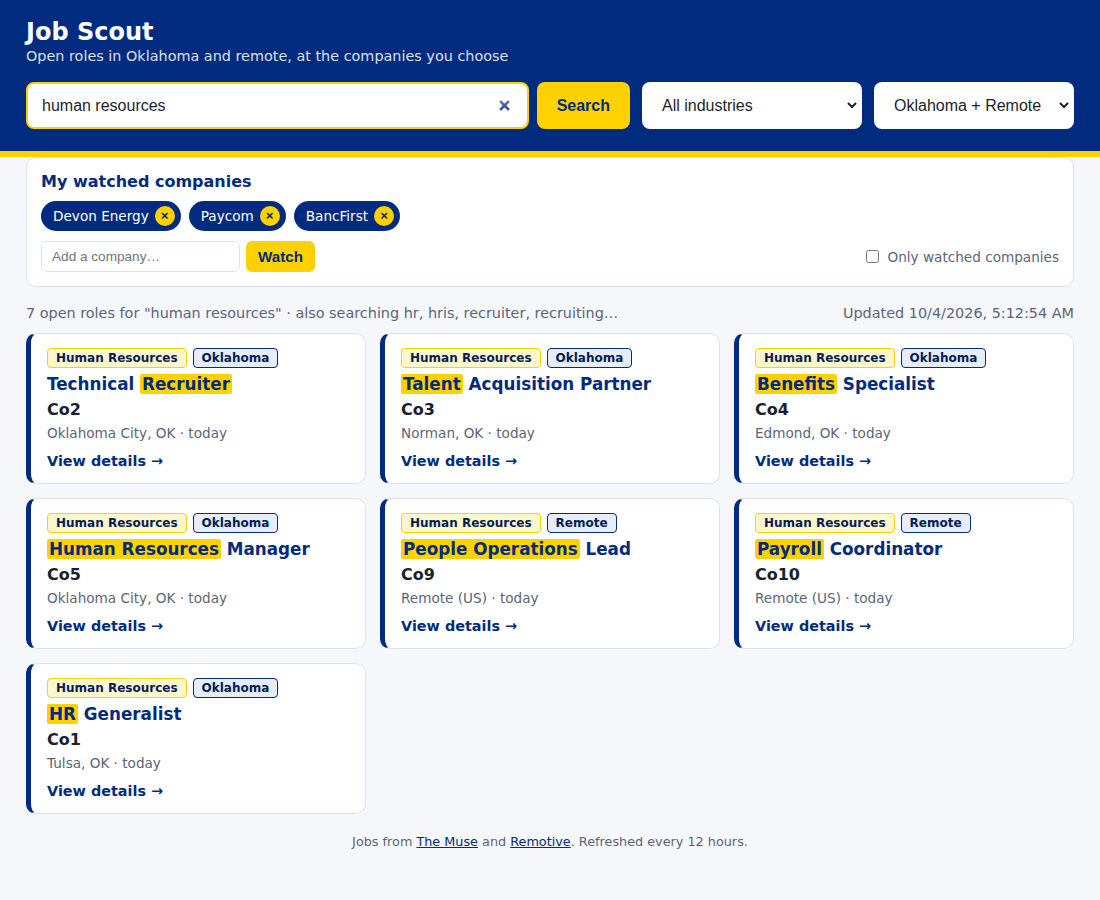
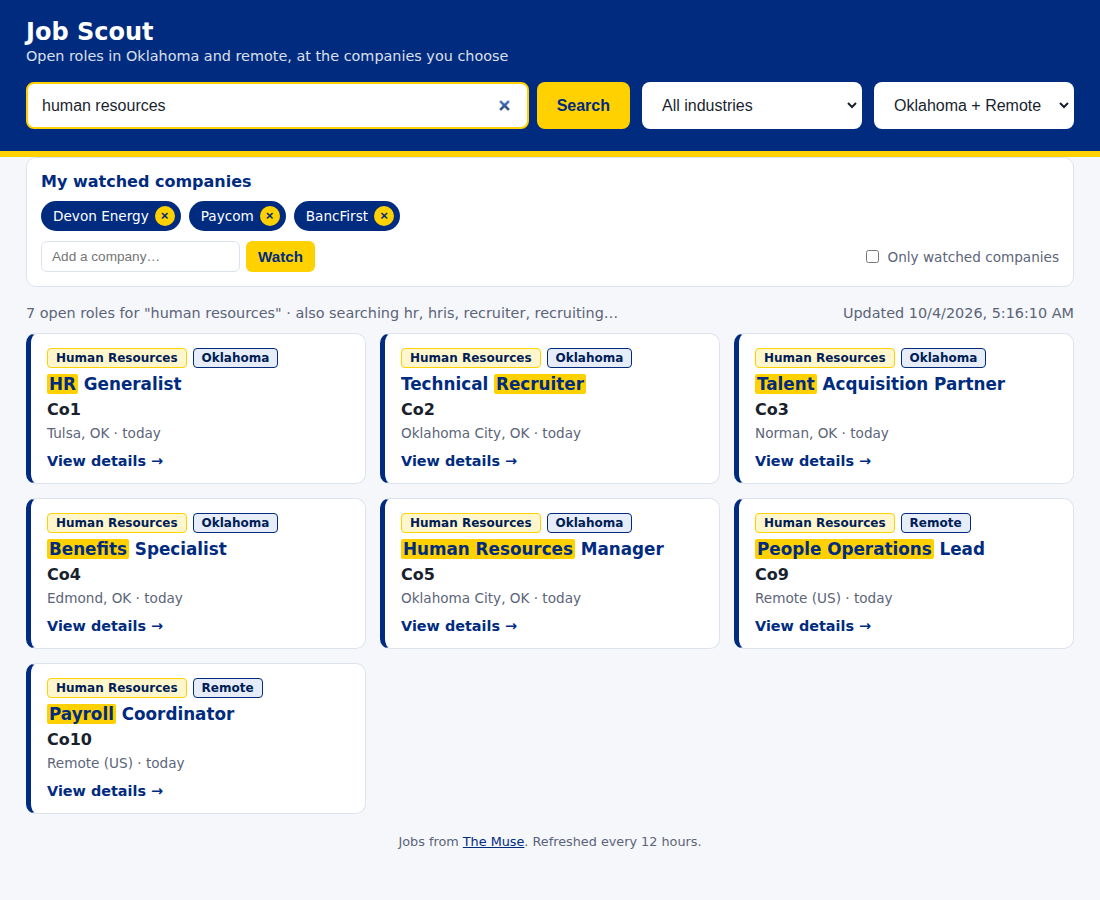
Add USAJOBS as an optional source for Oklahoma and remote HR federal jobs
Pulls every federal posting located in Oklahoma plus remote Human
Resources Management (series 0201) roles, with salary ranges. Turns on
when USAJOBS_API_KEY and USAJOBS_EMAIL are set; skipped otherwise.
Page footer now credits only the sources that returned jobs.

Claude-Session: https://claude.ai/code/session_01NNJ4n5GNgeSZ8YinLrcXCk

diff --git a/api/_lib/jobs.js b/api/_lib/jobs.js
@@ -4,6 +4,9 @@
 
 const MUSE_URL = "https://www.themuse.com/api/public/jobs";
 const REMOTIVE_URL = "https://remotive.com/api/remote-jobs";
+const USAJOBS_URL = "https://data.usajobs.gov/api/search";
+// Federal occupational series 0201 = Human Resources Management.
+const USAJOBS_HR_SERIES = "0201";
 
 const OK_CITIES = [
   "Oklahoma City, OK", "Tulsa, OK", "Norman, OK", "Edmond, OK", "Broken Arrow, OK",
@@ -125,8 +128,52 @@ function fromRemotive(job) {
   };
 }
 
-async function getJson(fetchImpl, url) {
-  const res = await fetchImpl(url, { headers: { "User-Agent": "UCO-Job-Scout/1.0" } });
+const escText = t => String(t ?? "").replace(/&/g, "&amp;").replace(/</g, "&lt;").replace(/>/g, "&gt;");
+
+function fromUsaJobs(item) {
+  const d = item.MatchedObjectDescriptor || {};
+  const details = d.UserArea?.Details || {};
+  const okLocs = (d.PositionLocation || [])
+    .filter(l => /oklahoma/i.test(l.CountrySubDivisionCode || "") || isOklahoma(l.LocationName))
+    .map(l => l.LocationName);
+  const remote = details.RemoteIndicator === true || /remote/i.test(d.PositionLocationDisplay || "");
+  if (!remote && okLocs.length === 0) return null;
+  const pay = (d.PositionRemuneration || [])[0];
+  const money = n => `$${Math.round(Number(n)).toLocaleString("en-US")}`;
+  const salary = pay && pay.MinimumRange
+    ? `${money(pay.MinimumRange)}–${money(pay.MaximumRange)} ${pay.Description || ""}`.trim() : "";
+  const agency = d.OrganizationName || d.DepartmentName || "U.S. Federal Government";
+  const category = (d.JobCategory || []).map(c => c.Name).join(", ");
+  const industry = classifyIndustry(category, d.PositionTitle, `${agency} ${d.DepartmentName || ""}`);
+  const duties = (details.MajorDuties || []).filter(Boolean);
+  const description = [
+    details.JobSummary && `<h3>Summary</h3><p>${escText(details.JobSummary)}</p>`,
+    duties.length && `<h3>Duties</h3><ul>${duties.map(x => `<li>${escText(x)}</li>`).join("")}</ul>`,
+    d.QualificationSummary && `<h3>Qualifications</h3><p>${escText(d.QualificationSummary)}</p>`,
+    d.ApplicationCloseDate && `<p><strong>Applications close:</strong> ${escText(new Date(d.ApplicationCloseDate).toDateString())}</p>`
+  ].filter(Boolean).join("");
+  return {
+    id: `usajobs-${d.PositionID || item.MatchedObjectId}`,
+    title: d.PositionTitle || "Federal position",
+    company: agency,
+    location: okLocs.length ? [...new Set(okLocs)].join(" · ") : "Remote (US)",
+    remote,
+    oklahoma: okLocs.length > 0,
+    industry: industry === "Other" ? "Government & Public Sector" : industry,
+    category,
+    level: (d.JobGrade || []).map(g => g.Code).join(", "),
+    type: (d.PositionSchedule || []).map(p => p.Name).join(", "),
+    salary,
+    posted: d.PublicationStartDate || null,
+    url: (d.ApplyURI || [])[0] || d.PositionURI || "",
+    description: trimDescription(sanitizeHtml(description)),
+    source: "USAJOBS",
+    sourceUrl: "https://www.usajobs.gov"
+  };
+}
+
+async function getJson(fetchImpl, url, headers = {}) {
+  const res = await fetchImpl(url, { headers: { "User-Agent": "UCO-Job-Scout/1.0", ...headers } });
   if (!res.ok) throw new Error(`${url} -> HTTP ${res.status}`);
   return res.json();
 }
@@ -171,15 +218,36 @@ async function fetchRemotive(fetchImpl, { limit = 150 } = {}) {
     .map(fromRemotive).filter(Boolean);
 }
 
-async function collectJobs(fetchImpl = fetch) {
-  const [muse, remotive] = await Promise.allSettled([fetchMuse(fetchImpl), fetchRemotive(fetchImpl)]);
-  const sources = {
-    "The Muse": muse.status === "fulfilled" ? muse.value.length : `error: ${muse.reason?.message}`,
-    "Remotive": remotive.status === "fulfilled" ? remotive.value.length : `error: ${remotive.reason?.message}`
-  };
+// USAJOBS needs a free key (https://developer.usajobs.gov) and the email it was registered with.
+// Without both, the source is skipped and the rest of the feed still works.
+async function fetchUsaJobs(fetchImpl, env = process.env) {
+  const key = env.USAJOBS_API_KEY, email = env.USAJOBS_EMAIL;
+  if (!key || !email) return null;
+  const headers = { "Authorization-Key": key, "User-Agent": email };
+  const queries = [
+    new URLSearchParams({ LocationName: "Oklahoma", ResultsPerPage: "500" }),
+    new URLSearchParams({ RemoteIndicator: "True", JobCategoryCode: USAJOBS_HR_SERIES, ResultsPerPage: "250" })
+  ];
+  const results = await Promise.allSettled(queries.map(q => getJson(fetchImpl, `${USAJOBS_URL}?${q}`, headers)));
+  if (results.every(r => r.status === "rejected")) throw results[0].reason;
+  const jobs = results.flatMap(r => (r.status === "fulfilled" ? r.value.SearchResult?.SearchResultItems || [] : []))
+    .map(fromUsaJobs).filter(Boolean);
+  // An Oklahoma job can also come back in the remote-HR query.
+  return [...new Map(jobs.map(j => [j.id, j])).values()];
+}
+
+async function collectJobs(fetchImpl = fetch, env = process.env) {
+  const [muse, remotive, usajobs] = await Promise.allSettled([
+    fetchMuse(fetchImpl), fetchRemotive(fetchImpl), fetchUsaJobs(fetchImpl, env)
+  ]);
+  const count = r => (r.status === "fulfilled" ? r.value.length : `error: ${r.reason?.message}`);
+  const sources = { "The Muse": count(muse), "Remotive": count(remotive) };
+  sources.USAJOBS = usajobs.status === "fulfilled" && usajobs.value === null
+    ? "not configured (set USAJOBS_API_KEY and USAJOBS_EMAIL)" : count(usajobs);
   const all = [
     ...(muse.status === "fulfilled" ? muse.value : []),
-    ...(remotive.status === "fulfilled" ? remotive.value : [])
+    ...(remotive.status === "fulfilled" ? remotive.value : []),
+    ...(usajobs.status === "fulfilled" && usajobs.value ? usajobs.value : [])
   ];
   // Same role posted on both feeds: keep the first one.
   const seen = new Set();
@@ -192,4 +260,4 @@ async function collectJobs(fetchImpl = fetch) {
   return { jobs, sources, industries: INDUSTRIES, updatedAt: new Date().toISOString() };
 }
 
-module.exports = { collectJobs, classifyIndustry, sanitizeHtml, trimDescription, fromMuse, fromRemotive, INDUSTRIES, OK_CITIES };
+module.exports = { collectJobs, classifyIndustry, sanitizeHtml, trimDescription, fromMuse, fromRemotive, fromUsaJobs, INDUSTRIES, OK_CITIES };

diff --git a/tests/jobs.test.js b/tests/jobs.test.js
@@ -108,3 +108,48 @@ test("trimDescription keeps long descriptions under the cap at a tag boundary", 
   assert.match(out, /Description shortened/);
   assert.strictEqual(trimDescription("<p>short</p>"), "<p>short</p>");
 });
+
+const usaItem = (over = {}) => ({ MatchedObjectId: "1", MatchedObjectDescriptor: {
+  PositionID: "AF-123", PositionTitle: "Human Resources Specialist", OrganizationName: "Air Force Materiel Command",
+  DepartmentName: "Department of the Air Force", PositionURI: "https://www.usajobs.gov/job/1", ApplyURI: ["https://www.usajobs.gov/job/1/apply"],
+  PositionLocation: [{ LocationName: "Tinker AFB, Oklahoma", CountrySubDivisionCode: "Oklahoma" }],
+  JobCategory: [{ Name: "Human Resources Management", Code: "0201" }], JobGrade: [{ Code: "GS" }],
+  PositionRemuneration: [{ MinimumRange: "61111", MaximumRange: "79443", Description: "Per Year" }],
+  PositionSchedule: [{ Name: "Full-time" }], PublicationStartDate: "2026-10-01",
+  QualificationSummary: "Specialized experience <b>required</b>.",
+  UserArea: { Details: { JobSummary: "Support civilian personnel.", MajorDuties: ["Advise managers", "Process actions"], RemoteIndicator: false } },
+  ...over } });
+
+test("fromUsaJobs maps federal jobs, keeps Oklahoma or remote, escapes text", () => {
+  const { fromUsaJobs } = require("../api/_lib/jobs");
+  const j = fromUsaJobs(usaItem());
+  assert.strictEqual(j.industry, "Human Resources");
+  assert.strictEqual(j.location, "Tinker AFB, Oklahoma");
+  assert.ok(j.oklahoma && !j.remote);
+  assert.strictEqual(j.salary, "$61,111–$79,443 Per Year");
+  assert.strictEqual(j.url, "https://www.usajobs.gov/job/1/apply");
+  assert.match(j.description, /<li>Advise managers<\/li>/);
+  assert.ok(!j.description.includes("<b>"), "plain-text fields must be escaped, not rendered");
+  assert.strictEqual(fromUsaJobs(usaItem({ PositionLocation: [{ LocationName: "Denver, Colorado", CountrySubDivisionCode: "Colorado" }] })), null);
+  const other = fromUsaJobs(usaItem({ PositionTitle: "Park Ranger", OrganizationName: "National Park Service", DepartmentName: "Department of the Interior", JobCategory: [] }));
+  assert.strictEqual(other.industry, "Government & Public Sector");
+});
+
+test("USAJOBS is skipped without a key and called with key headers when set", async () => {
+  const seen = [];
+  const fakeFetch = async (url, opts) => {
+    seen.push({ url, headers: opts.headers });
+    if (url.includes("usajobs")) return { ok: true, json: async () => ({ SearchResult: { SearchResultItems: [usaItem()] } }) };
+    if (url.includes("remotive")) return { ok: true, json: async () => ({ jobs: [] }) };
+    return { ok: true, json: async () => ({ page_count: 1, results: [] }) };
+  };
+  const off = await collectJobs(fakeFetch, {});
+  assert.match(off.sources.USAJOBS, /not configured/);
+  assert.ok(!seen.some(s => s.url.includes("usajobs")));
+  const on = await collectJobs(fakeFetch, { USAJOBS_API_KEY: "k", USAJOBS_EMAIL: "me@example.edu" });
+  const call = seen.find(s => s.url.includes("usajobs"));
+  assert.strictEqual(call.headers["Authorization-Key"], "k");
+  assert.strictEqual(call.headers["User-Agent"], "me@example.edu");
+  assert.strictEqual(on.sources.USAJOBS, 1); // the two queries return the same job; deduped
+  assert.strictEqual(on.jobs.length, 1);
+});

diff --git a/web/index.html b/web/index.html
@@ -142,7 +142,7 @@
   </div>
 </dialog>
 
-<footer>Jobs from <a href="https://www.themuse.com" target="_blank" rel="noopener">The Muse</a> and <a href="https://remotive.com" target="_blank" rel="noopener">Remotive</a>. Refreshed every 12 hours.</footer>
+<footer id="credits">Jobs from <a href="https://www.themuse.com" target="_blank" rel="noopener">The Muse</a> and <a href="https://remotive.com" target="_blank" rel="noopener">Remotive</a>. Refreshed every 12 hours.</footer>
 
 <script>
   const FALLBACK_INDUSTRIES = [
@@ -341,6 +341,13 @@
       const data = await res.json();
       if (!data.jobs || !data.jobs.length) throw new Error("no jobs returned");
       fillIndustries(data.industries || FALLBACK_INDUSTRIES);
+      // Credit every source that actually returned jobs.
+      const SOURCE_LINKS = { "The Muse": "https://www.themuse.com", "Remotive": "https://remotive.com", "USAJOBS": "https://www.usajobs.gov" };
+      const used = Object.keys(SOURCE_LINKS).filter(n => typeof (data.sources || {})[n] === "number" && data.sources[n] > 0);
+      if (used.length) {
+        const links = used.map(n => `<a href="${SOURCE_LINKS[n]}" target="_blank" rel="noopener">${n}</a>`);
+        $("credits").innerHTML = `Jobs from ${links.length > 1 ? links.slice(0, -1).join(", ") + " and " + links.at(-1) : links[0]}. Refreshed every 12 hours.`;
+      }
       $("updated").textContent = data.updatedAt ? `Updated ${new Date(data.updatedAt).toLocaleString()}` : "";
       load(data.jobs);
     } catch (err) {

diff --git a/docs/ARCHITECTURE.md b/docs/ARCHITECTURE.md
@@ -107,6 +107,7 @@ model only for the hard careers-page cases.
 | Workday | Company-specific JSON behind the careers site | Medium |
 | **The Muse** (live now) | Public jobs API, filtered to 15 Oklahoma cities + "Flexible / Remote" | High |
 | **Remotive** (live now) | Public remote-jobs API, kept only when US-eligible; must credit and link back | High |
+| **USAJOBS** (ready; needs key) | Official federal jobs API: everything located in Oklahoma plus remote HR (series 0201). Includes salary ranges. Turns on when `USAJOBS_API_KEY` and `USAJOBS_EMAIL` are set | High |
 | Indeed / ZipRecruiter | Partner APIs (connectors are already available in this workspace) | Medium. Check terms of use |
 | Any other careers page | Fetch HTML → Claude extracts | Lower; most expensive |
 
